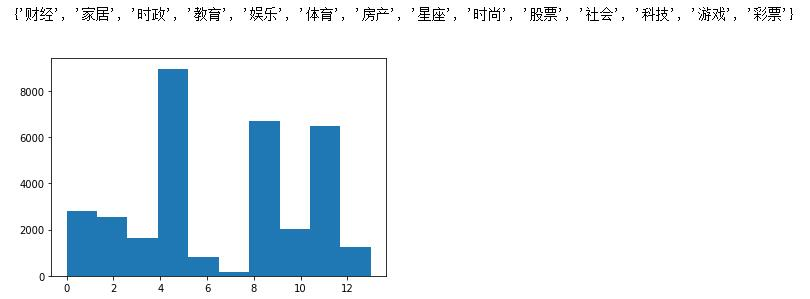
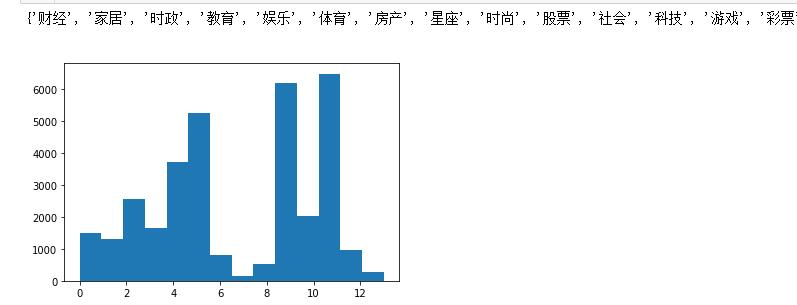
add

Changed region(s): [[0.0, 0.1806, 0.5119, 0.9933], [0.0, 0.0, 1.0, 0.0903]]

diff --git a/_posts/2019-11-22-text-classification-model.md b/_posts/2019-11-22-text-classification-model.md
@@ -82,10 +82,18 @@ label_dict
  '时尚': 541,
  '星座': 144}
 
- 
 
 ```
+构建DataFrame:
+![](https://raw.githubusercontent.com/rejae/rejae.github.io/master/img/20191123table1.jpg)
+为DataFrame增加label_id一列：
+![](https://raw.githubusercontent.com/rejae/rejae.github.io/master/img/20191123table2.jpg)
+
+绘制不同label的数据分布：
 ![](https://raw.githubusercontent.com/rejae/rejae.github.io/master/img/20191123dataanalyze.jpg)
+可见不同label的数据分布是不均匀的，其中科技，体育，股票占比较高，都超过了5000，而游戏，时尚，房产，星座都未超过1000。
+
+
 
 ## albert_tiny
 ```
@@ -240,4 +248,51 @@ Time usage: 0:00:22
 
 ```
 
-## Bilstm  use_pretrain = True
+## Bilstm   cell：lstm  use_pretrain = True
+best train:<br>
+Iter:   1800, Train Loss:   0.23, Train Acc:  94.53%, Val Loss:   0.37, Val Acc:  90.10%, Time: 0:52:46 *
+```
+Testing...
+Test Loss:   0.36, Test Acc:  89.67%
+Precision, Recall and F1-Score...
+              precision    recall  f1-score   support
+
+          财经       0.85      0.79      0.82       187
+          彩票       0.91      0.72      0.81        43
+          星座       0.82      0.69      0.75        13
+          娱乐       0.89      0.93      0.91       447
+          社会       0.75      0.86      0.80       247
+          股票       0.90      0.94      0.92       784
+          家居       0.94      0.82      0.88       146
+          时政       0.82      0.83      0.82       294
+          时尚       0.82      0.82      0.82        56
+          体育       0.96      0.97      0.97       688
+          科技       0.91      0.90      0.90       832
+          房产       0.99      0.97      0.98        97
+          游戏       0.78      0.81      0.80       113
+          教育       0.95      0.82      0.88       233
+
+    accuracy                           0.90      4180
+   macro avg       0.88      0.85      0.86      4180
+weighted avg       0.90      0.90      0.90      4180
+
+Confusion Matrix...
+[[147   0   0   4   1  28   0   2   0   1   3   0   0   1]
+ [  0  31   0   0   0   0   0   0   0   9   2   0   1   0]
+ [  0   0   9   0   2   0   0   0   0   0   1   0   1   0]
+ [  0   0   0 414   7   2   1   2   2   5  10   0   2   2]
+ [  0   1   0   9 212   2   2   9   0   1   5   0   4   2]
+ [ 20   0   0   0   3 739   0  12   0   0  10   0   0   0]
+ [  1   0   0   7   1   2 119   1   6   1   5   1   1   1]
+ [  1   0   0   5  17  13   1 243   0   3   9   0   0   2]
+ [  0   0   0   6   0   0   2   1  46   0   0   0   1   0]
+ [  0   0   0  10   5   0   0   5   0 665   2   0   1   0]
+ [  1   1   0   5  16  26   1  16   2   2 746   0  15   1]
+ [  0   0   0   0   0   1   0   0   0   1   1  94   0   0]
+ [  0   1   0   1   2   0   0   0   0   1  16   0  92   0]
+ [  2   0   2   2  15   4   0   6   0   1  10   0   0 191]]
+Time usage: 0:00:53
+
+```
+
+## Bilstm   cell：gru  use_pretrain = True

diff --git a/_posts/2019-11-23-Distilling-Knowledge.md b/_posts/2019-11-23-Distilling-Knowledge.md
@@ -1,0 +1,47 @@
+---
+layout:     post
+title:      Distilling the Knowledge in a Neural Network
+subtitle:   summary
+date:       2019-11-23
+author:     RJ
+header-img: 
+catalog: true
+tags:
+    - NLP
+
+---
+<p id = "build"></p>
+---
+
+## 前言
+随着深度学习模型越来越大，效果也不断提升的同时，所需要的计算量和成本也在不断的提高，在保证模型效果差不多的情况下，压缩模型的参数变得尤为重要，就Bert模型而言，常见的压缩模型参数的方法如下：
+
+1. Pruning 
+    - Removes unnecessary parts of the network after training. This includes weight magnitude pruning, attention head pruning, layers, and others. Some methods also impose regularization during training to increase prunability (layer dropout).
+
+2. Weight Factorization 
+    - Approximates parameter matrices by factorizing them into a multiplication of two smaller matrices. This imposes a low-rank constraint on the matrix. Weight factorization can be applied to both token embeddings (which saves a lot of memory on disk) or parameters in feed-forward / self-attention layers (for some speed improvements).
+
+3. Knowledge Distillation 
+    - Aka “Student Teacher.” Trains a much smaller Transformer from scratch on the pre-training / downstream-data. Normally this would fail, but utilizing soft labels from a fully-sized model improves optimization for unknown reasons. Some methods also distill BERT into different architectures (LSTMS, etc.) which have faster inference times. Others dig deeper into the teacher, looking not just at the output but at weight matrices and hidden activations.
+
+4. Weight Sharing 
+    - Some weights in the model share the same value as other parameters in the model. For example, ALBERT uses the same weight matrices for every single layer of self-attention in BERT.
+
+5. Quantization 
+    - Truncates floating point numbers to only use a few bits (which causes round-off error). The quantization values can also be learned either during or after training.
+
+6. Pre-train vs. Downstream 
+    - Some methods only compress BERT w.r.t. certain downstream tasks. Others compress BERT in a way that is task-agnostic.
+
+
+知识蒸馏手段是其中之一，今天将要学习知识蒸馏的开山之作，论文 ：<br>
+[Distilling the Knowledge in a Neural Network](https://arxiv.org/pdf/1503.02531.pdf)
+
+##
+
+
+
+
+## 参考
+[All The Ways You Can Compress BERT](http://mitchgordon.me/machine/learning/2019/11/18/all-the-ways-to-compress-BERT.html)
